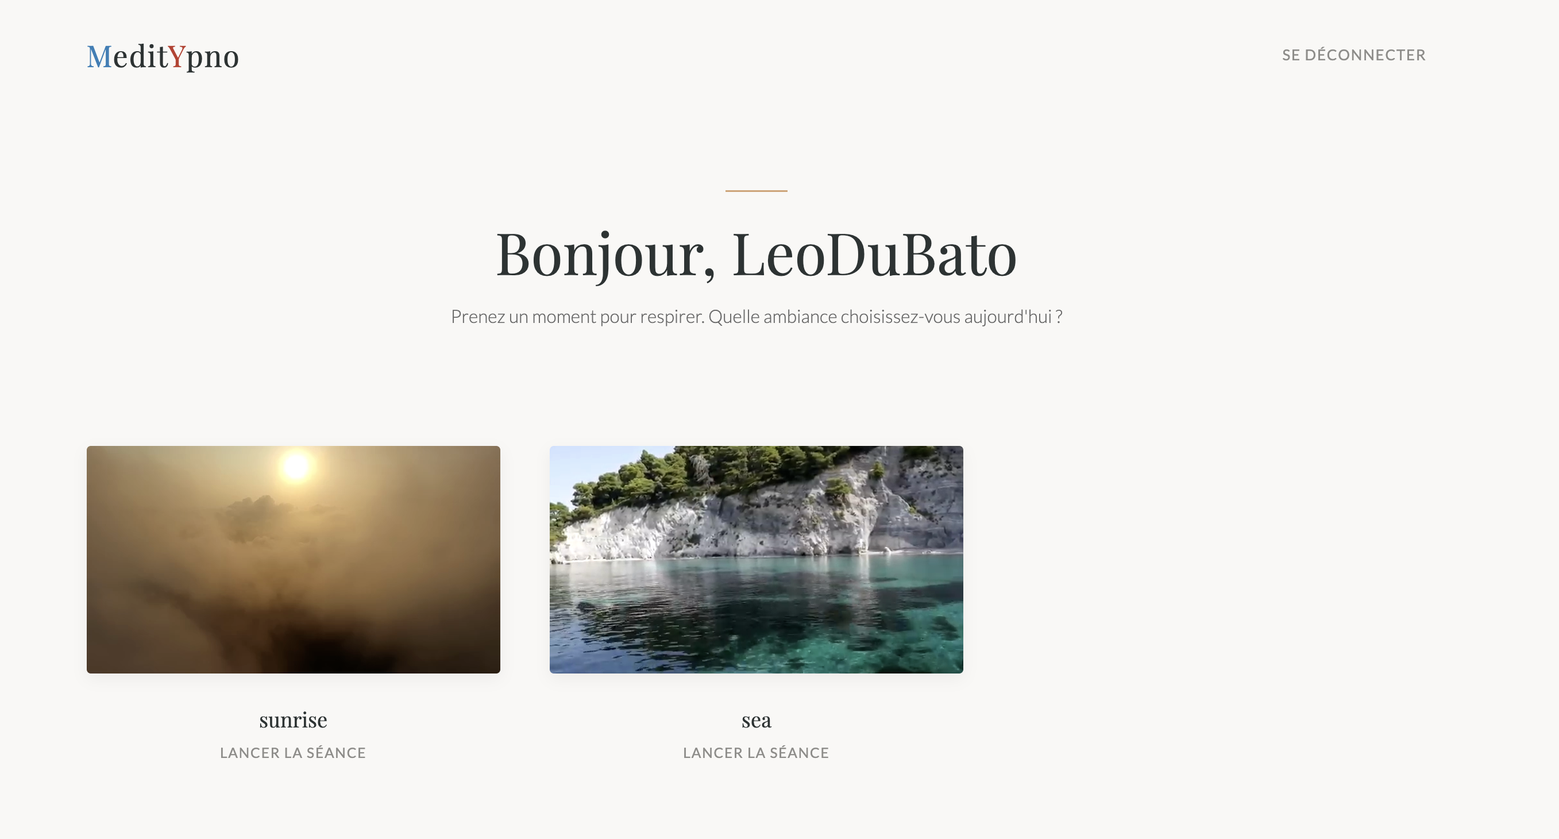
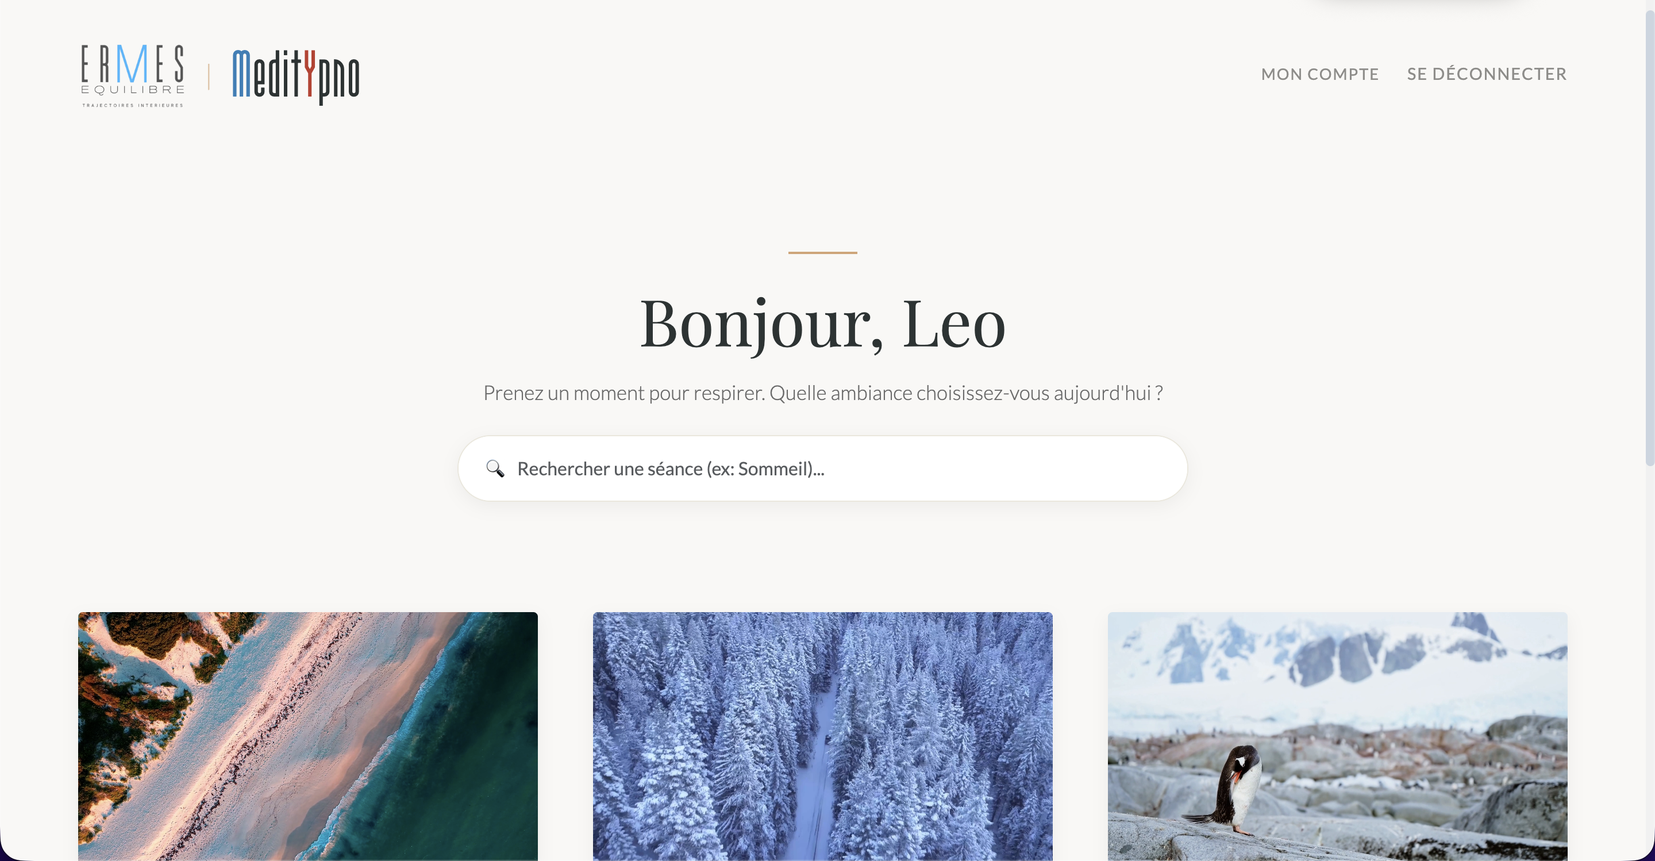
projet vod rework mais aussi projet time tracker app

diff --git a/projets/ermesVod.html b/projets/ermesVod.html
@@ -70,33 +70,66 @@
                             <button type="button" data-bs-target="#projectCarousel" data-bs-slide-to="1"></button>
                             <button type="button" data-bs-target="#projectCarousel" data-bs-slide-to="2"></button>
                             <button type="button" data-bs-target="#projectCarousel" data-bs-slide-to="3"></button>
+                            <button type="button" data-bs-target="#projectCarousel" data-bs-slide-to="4"></button>
+                            <button type="button" data-bs-target="#projectCarousel" data-bs-slide-to="5"></button>
+                            <button type="button" data-bs-target="#projectCarousel" data-bs-slide-to="6"></button>
+                            <button type="button" data-bs-target="#projectCarousel" data-bs-slide-to="7"></button>
                         </div>
                         <div class="carousel-inner">
                             <div class="carousel-item active">
-                                <img src="../assets/img/projects/ermes/home.png" class="d-block w-100"
-                                    alt="Interface Abonnés">
+                                <img src="../assets/img/projects/ermes/LandingPage1.png" class="d-block w-100"
+                                    alt="Landing Page Immersive">
                                 <div class="carousel-caption d-none d-md-block glass rounded px-3 py-2 text-white">
-                                    <h5 class="mb-0">Interface Abonnés (Netflix-style)</h5>
+                                    <h5 class="mb-0">Une Vitrine Immersive & Moderne</h5>
+                                </div>
+                            </div>
+                            <div class="carousel-item">
+                                <img src="../assets/img/projects/ermes/LandingPageWithSubscribtion.png"
+                                    class="d-block w-100" alt="Landing Page avec Offres">
+                                <div class="carousel-caption d-none d-md-block glass rounded px-3 py-2 text-white">
+                                    <h5 class="mb-0">Présentation Claire des Offres</h5>
                                 </div>
                             </div>
                             <div class="carousel-item">
                                 <img src="../assets/img/projects/ermes/login.png" class="d-block w-100"
-                                    alt="Page Login">
+                                    alt="Login Page">
                                 <div class="carousel-caption d-none d-md-block glass rounded px-3 py-2 text-white">
                                     <h5 class="mb-0">Authentification Sécurisée</h5>
                                 </div>
                             </div>
                             <div class="carousel-item">
-                                <img src="../assets/img/projects/ermes/paywall.png" class="d-block w-100" alt="Paywall">
+                                <img src="../assets/img/projects/ermes/Home.png" class="d-block w-100"
+                                    alt="Catalogue Vidéo">
                                 <div class="carousel-caption d-none d-md-block glass rounded px-3 py-2 text-white">
-                                    <h5 class="mb-0">Paywall & Gestion d'Abonnement</h5>
+                                    <h5 class="mb-0">Catalogue Vidéo Complet</h5>
                                 </div>
                             </div>
                             <div class="carousel-item">
-                                <img src="../assets/img/projects/ermes/dashboard.png" class="d-block w-100"
-                                    alt="Dashboard Admin">
+                                <img src="../assets/img/projects/ermes/HomeSearchBar.png" class="d-block w-100"
+                                    alt="Recherche Intelligente">
                                 <div class="carousel-caption d-none d-md-block glass rounded px-3 py-2 text-white">
-                                    <h5 class="mb-0">Dashboard Administrateur</h5>
+                                    <h5 class="mb-0">Navigation Fluide & Recherche Instantanée</h5>
+                                </div>
+                            </div>
+                            <div class="carousel-item">
+                                <img src="../assets/img/projects/ermes/VideoDragAndDrop.png" class="d-block w-100"
+                                    alt="Upload Admin">
+                                <div class="carousel-caption d-none d-md-block glass rounded px-3 py-2 text-white">
+                                    <h5 class="mb-0">Administration "Drag & Drop"</h5>
+                                </div>
+                            </div>
+                            <div class="carousel-item">
+                                <img src="../assets/img/projects/ermes/StripePage.png" class="d-block w-100"
+                                    alt="Paiement Sécurisé">
+                                <div class="carousel-caption d-none d-md-block glass rounded px-3 py-2 text-white">
+                                    <h5 class="mb-0">Paiements Intégrés (Stripe)</h5>
+                                </div>
+                            </div>
+                            <div class="carousel-item">
+                                <img src="../assets/img/projects/ermes/PayForSubscrintion.png" class="d-block w-100"
+                                    alt="Activation Code">
+                                <div class="carousel-caption d-none d-md-block glass rounded px-3 py-2 text-white">
+                                    <h5 class="mb-0">Activation par Code</h5>
                                 </div>
                             </div>
                         </div>
@@ -145,10 +178,18 @@
                             </ul>
                         </div>
 
+                        <div class="mb-4">
+                            <h4 class="h6 text-muted text-uppercase small ls-1">Site Web</h4>
+                            <a href="https://meditypno.ermes-equilibre.com/" target="_blank"
+                                class="btn btn-sm btn-primary w-100 rounded-pill">
+                                Voir le site
+                            </a>
+                        </div>
+
                         <div>
-                            <h4 class="h6 text-muted text-uppercase small ls-1">Code & Démo</h4>
+                            <h4 class="h6 text-muted text-uppercase small ls-1">Code Source</h4>
                             <p class="small text-muted mb-0">
-                                <em>Projet privé (propriété de l'entreprise). Code source non public.</em>
+                                <em>Projet privé (propriété de l'entreprise).</em>
                             </p>
                         </div>
                     </div>
@@ -216,69 +257,112 @@
                         </div>
                     </div>
 
-                    <!-- 3. Key Features -->
+                    <!-- 3. Product Tour -->
                     <div class="mb-5">
-                        <h2 class="h3 text-white mb-3">3. Fonctionnalités Clés</h2>
+                        <h2 class="h3 text-white mb-4">3. Le Produit : Une Expérience Premium</h2>
 
-                        <div class="d-flex align-items-start mb-4">
-                            <div class="me-3 mt-1 text-primary">
-                                <svg xmlns="http://www.w3.org/2000/svg" width="24" height="24" fill="currentColor"
-                                    class="bi bi-camera-video" viewBox="0 0 16 16">
-                                    <path fill-rule="evenodd"
-                                        d="M0 5a2 2 0 0 1 2-2h7.5a2 2 0 0 1 1.983 1.738l3.11-1.382A1 1 0 0 1 16 4.269v7.461a1 1 0 0 1-1.406.913l-3.111-1.382A2 2 0 0 1 9.5 13H2a2 2 0 0 1-2-2V5zm11.5 5.175 3.5 1.556V4.269l-3.5 1.556v4.35zM2 4a1 1 0 0 0-1 1v6a1 1 0 0 0 1 1h7.5a1 1 0 0 0 1-1V5a1 1 0 0 0-1-1H2z" />
-                                </svg>
-                            </div>
-                            <div>
-                                <h4 class="h5 text-white">Pipeline d'Ingestion "Zéro Clic"</h4>
-                                <p class="text-muted small">
-                                    L'administrateur dépose simplement un fichier <code>.mp4</code> via SFTP. Un
-                                    "Watcher" (basé sur <a href="https://medium.com/@ashusingh584/chokidar-11290855e2cb"
-                                        target="_blank" class="text-primary text-decoration-none">chokidar</a>) détecte
-                                    le fichier, lance un worker
-                                    FFmpeg pour le convertir en <strong>HLS (.m3u8)</strong>, génère les miniatures, et
-                                    met à jour la base de données.
-                                    <br><span
-                                        class="badge bg-secondary bg-opacity-10 text-secondary mt-1">Automatisé</span>
-                                </p>
+                        <!-- Feature 1: Landing Page -->
+                        <div class="card glass p-4 mb-4 border-0">
+                            <div class="row align-items-center">
+                                <div class="col-lg-12 mb-3">
+                                    <h4 class="h5 text-primary mb-3">Une Vitrine Immersive & "Zen"</h4>
+                                    <p class="text-muted">
+                                        L'application accueille les visiteurs avec une Landing Page moderne, conçue
+                                        selon
+                                        des codes esthétiques "Netflix-like" épurés. L'objectif est de plonger
+                                        immédiatement l'utilisateur dans l'univers de la marque.
+                                    </p>
+                                </div>
+                                <div class="col-lg-12">
+                                    <img src="../assets/img/projects/ermes/LandingPage1.png"
+                                        class="img-fluid rounded shadow-sm mb-2" alt="Landing Page">
+                                    <img src="../assets/img/projects/ermes/LandingPageWithSubscribtion.png"
+                                        class="img-fluid rounded shadow-sm" alt="Sections Offres">
+                                </div>
                             </div>
                         </div>
 
-                        <div class="d-flex align-items-start mb-4">
-                            <div class="me-3 mt-1 text-primary">
-                                <svg xmlns="http://www.w3.org/2000/svg" width="24" height="24" fill="currentColor"
-                                    class="bi bi-shield-lock" viewBox="0 0 16 16">
-                                    <path
-                                        d="M8 1a2 2 0 0 1 2 2v4H6V3a2 2 0 0 1 2-2zm3 6V3a3 3 0 0 0-6 0v4a2 2 0 0 0-2 2v5a2 2 0 0 0 2 2h6a2 2 0 0 0 2-2V9a2 2 0 0 0-2-2z" />
-                                </svg>
-                            </div>
-                            <div>
-                                <h4 class="h5 text-white">Paywall Intelligent & RBAC</h4>
-                                <p class="text-muted small">
-                                    Protection des routes Frontend et Backend. Le token JWT contient l'état de
-                                    l'abonnement. Si un utilisateur non-abonné tente d'accéder à une vidéo, il est
-                                    redirigé vers une page "Subscribe" (Paywall). Le système gère aussi les expirations
-                                    d'abonnement automatiquement ("Lazy Check").
-                                </p>
+                        <!-- Feature 2: Auth -->
+                        <div class="card glass p-4 mb-4 border-0">
+                            <div class="row align-items-center">
+                                <div class="col-lg-6 mb-3 mb-lg-0">
+                                    <h4 class="h5 text-primary mb-3">Accès Sécurisé</h4>
+                                    <p class="text-muted">
+                                        Une interface de connexion sobre et sécurisée, cohérente avec l'identité
+                                        visuelle
+                                        de la marque, protège l'accès aux contenus exclusifs.
+                                    </p>
+                                </div>
+                                <div class="col-lg-6">
+                                    <img src="../assets/img/projects/ermes/login.png"
+                                        class="img-fluid rounded shadow-sm" alt="Login Page">
+                                </div>
                             </div>
                         </div>
 
-                        <div class="d-flex align-items-start">
-                            <div class="me-3 mt-1 text-primary">
-                                <svg xmlns="http://www.w3.org/2000/svg" width="24" height="24" fill="currentColor"
-                                    class="bi bi-speedometer2" viewBox="0 0 16 16">
-                                    <path
-                                        d="M8 4a.5.5 0 0 1 .5.5V6a.5.5 0 0 1-1 0V4.5A.5.5 0 0 1 8 4zM3.732 5.732a.5.5 0 0 1 .707 0l.915.914a.5.5 0 1 1-.708.708l-.914-.915a.5.5 0 0 1 0-.707zM2 10a.5.5 0 0 1 .5-.5h1.586a.5.5 0 0 1 0 1H2.5A.5.5 0 0 1 2 10zm9.5 0a.5.5 0 0 1 .5-.5h1.5a.5.5 0 0 1 0 1H12a.5.5 0 0 1-.5-.5zm.754-4.246a.389.389 0 0 0-.527-.02l-.755.755a.389.389 0 0 0 .22.68c.075.006.15-.015.207-.057l.755-.755a.389.389 0 0 0 .1-.527zM8 1a6.996 6.996 0 0 0-7 7c0 3.209 2.11 5.867 5.035 6.703a.5.5 0 1 1-.271.961A7.996 7.996 0 0 1 8 0c4.418 0 8 3.582 8 8a7.996 7.996 0 0 1-1.025 3.961.5.5 0 0 1-.892-.451A6.996 6.996 0 0 1 8 1z" />
-                                </svg>
+                        <!-- Feature 3: Catalog & Search -->
+                        <div class="card glass p-4 mb-4 border-0">
+                            <h4 class="h5 text-primary mb-3">Le Catalogue Vidéo & Recherche</h4>
+                            <p class="text-muted mb-4">
+                                Une fois connecté, l'abonné découvre l'ensemble du catalogue. J'ai développé un moteur
+                                de recherche instantanée qui filtre la grille en temps réel. L'expérience est fluide,
+                                invitant à l'exploration.
+                            </p>
+                            <img src="../assets/img/projects/ermes/Home.png" class="img-fluid rounded shadow-sm mb-2"
+                                alt="Catalogue Vidéo">
+                            <img src="../assets/img/projects/ermes/HomeSearchBar.png"
+                                class="img-fluid rounded shadow-sm" alt="Recherche">
+                        </div>
+
+                        <!-- Feature 4: Admin -->
+                        <div class="card glass p-4 mb-4 border-0">
+                            <div class="row align-items-center">
+                                <div class="col-lg-6 order-lg-2 mb-3 mb-lg-0">
+                                    <h4 class="h5 text-primary mb-3">Administration : Ingestion "Zéro Clic"</h4>
+                                    <p class="text-muted small">
+                                        Via le panel admin, le gérant glisse simplement ses vidéos ("Drag & Drop").
+                                        <br><strong>Automatiquement :</strong>
+                                    <ul class="list-unstyled mt-2">
+                                        <li>⚡ Upload sécurisé</li>
+                                        <li>⚙ Transcodage HLS (Streaming)</li>
+                                        <li>🖼 Génération de miniatures</li>
+                                    </ul>
+                                    </p>
+                                </div>
+                                <div class="col-lg-6 order-lg-1">
+                                    <img src="../assets/img/projects/ermes/VideoDragAndDrop.png"
+                                        class="img-fluid rounded shadow-sm mb-2" alt="Interface Upload">
+                                    <img src="../assets/img/projects/ermes/AddAVideoLoading.png"
+                                        class="img-fluid rounded shadow-sm" alt="Barre de chargement">
+                                </div>
                             </div>
-                            <div>
-                                <h4 class="h5 text-white">Performance & Optimisation</h4>
-                                <p class="text-muted small">
-                                    Utilisation de <a href="https://hlsjs.video-dev.org/demo/" target="_blank"
-                                        class="text-primary text-decoration-none"><strong>hls.js</strong></a> pour le
-                                    streaming adaptatif (la qualité
-                                    s'ajuste au réseau du client). File d'attente (Queue) pour l'encodage afin d'éviter
-                                    de saturer le CPU du serveur si plusieurs vidéos sont uploadées en même temps.
-                                </p>
+                        </div>
+
+                        <!-- Feature 5: Monetization -->
+                        <div class="card glass p-4 mb-4 border-0">
+                            <h4 class="h5 text-primary mb-3">Monétisation Hybride Flexible</h4>
+                            <p class="text-muted">
+                                Pour répondre aux besoins B2C et B2B, j'ai mis en place deux flux d'abonnement :
+                            </p>
+                            <div class="row g-4">
+                                <div class="col-md-6">
+                                    <div class="border border-secondary border-opacity-25 rounded p-3 h-100">
+                                        <strong class="d-block text-white mb-2">1. Paiement Carte (Stripe)</strong>
+                                        <p class="small text-muted mb-2">Abonnement mensuel récurrent, géré
+                                            automatiquement via Stripe Checkout.</p>
+                                        <img src="../assets/img/projects/ermes/StripePage.png"
+                                            class="img-fluid rounded shadow-sm" alt="Stripe">
+                                    </div>
+                                </div>
+                                <div class="col-md-6">
+                                    <div class="border border-secondary border-opacity-25 rounded p-3 h-100">
+                                        <strong class="d-block text-white mb-2">2. Code d'Activation</strong>
+                                        <p class="small text-muted mb-2">Système de clés unique pour les ventes en
+                                            boutique physique ou externe.</p>
+                                        <img src="../assets/img/projects/ermes/PayForSubscrintion.png"
+                                            class="img-fluid rounded shadow-sm" alt="Activation Code">
+                                    </div>
+                                </div>
                             </div>
                         </div>
 

diff --git a/projets/timeTracker.html b/projets/timeTracker.html
@@ -183,6 +183,69 @@
                         </div>
                     </div>
 
+                    <!-- Feature Showcase -->
+                    <div class="mb-5">
+                        <h2 class="h3 text-white mb-4">Fonctionnalités Clés</h2>
+
+                        <!-- Feature 1: Dashboard -->
+                        <div class="row align-items-center mb-5">
+                            <div class="col-md-7 mb-3 mb-md-0">
+                                <div class="card glass p-2 border-0">
+                                    <img src="../assets/img/projects/time_tracker/dashboard.png"
+                                        class="img-fluid rounded shadow-sm" alt="Interface de tracking">
+                                </div>
+                            </div>
+                            <div class="col-md-5">
+                                <h3 class="h4 text-primary">Tracking en Temps Réel</h3>
+                                <p class="text-muted">
+                                    Un timer minimaliste et discret conçu pour ne pas distraire. Lancez votre session en
+                                    un clic,
+                                    sélectionnez votre activité, et laissez l'application tourner en arrière-plan
+                                    pendant que vous
+                                    vous concentrez sur l'essentiel.
+                                </p>
+                            </div>
+                        </div>
+
+                        <!-- Feature 2: Stats -->
+                        <div class="row align-items-center mb-5">
+                            <div class="col-md-7 order-md-2 mb-3 mb-md-0">
+                                <div class="card glass p-2 border-0">
+                                    <img src="../assets/img/projects/time_tracker/stats.png"
+                                        class="img-fluid rounded shadow-sm" alt="Statistiques complètes">
+                                </div>
+                            </div>
+                            <div class="col-md-5 order-md-1">
+                                <h3 class="h4 text-primary">Analyses & Statistiques</h3>
+                                <p class="text-muted">
+                                    Visualisez votre progression grâce à des graphiques dynamiques.
+                                    Analysez la répartition de votre temps par catégorie sur la semaine et identifiez
+                                    vos jours
+                                    les plus productifs d'un simple coup d'œil.
+                                </p>
+                            </div>
+                        </div>
+
+                        <!-- Feature 3: Profile -->
+                        <div class="row align-items-center mb-5">
+                            <div class="col-md-7 mb-3 mb-md-0">
+                                <div class="card glass p-2 border-0">
+                                    <img src="../assets/img/projects/time_tracker/profile.png"
+                                        class="img-fluid rounded shadow-sm" alt="Gestion du profil">
+                                </div>
+                            </div>
+                            <div class="col-md-5">
+                                <h3 class="h4 text-primary">Profil & Paramètres</h3>
+                                <p class="text-muted">
+                                    Personnalisez vos catégories de travail et gérez vos données.
+                                    L'application permet un export/import complet de vos données au format JSON, vous
+                                    garantissant
+                                    la pleine maîtrise de vos informations.
+                                </p>
+                            </div>
+                        </div>
+                    </div>
+
                     <!-- 2. Architecture -->
                     <div class="mb-5">
                         <h2 class="h3 text-white mb-3">2. Architecture & Fonctionnalités</h2>

diff --git a/sections/competences.html b/sections/competences.html
@@ -12,7 +12,9 @@
                     <div class="col-md-6 col-lg-4">
                         <div class="card glass h-100 d-flex flex-column">
                             <div class="card-body d-flex flex-column">
-                                <h4 class="card-title h5 mb-3 text-white">TimeTracker Desktop App</h4>
+                                <h4 class="card-title h5 mb-3 text-white">TimeTracker Desktop App <span
+                                        class="badge bg-danger ms-1 align-middle"
+                                        style="font-size: 0.6em;">Nouveau</span></h4>
                                 <p class="card-text flex-grow-1 small">
                                     Développement d'une application de bureau "Offline" avec
                                     <strong>Electron</strong>, <strong>React</strong> et <strong>TypeScript</strong>.
@@ -80,7 +82,10 @@
                     <div class="col-md-6 col-lg-3">
                         <div class="card glass h-100 d-flex flex-column">
                             <div class="card-body d-flex flex-column">
-                                <h4 class="card-title h6 mb-3 text-white">Plateforme VOD Ermes</h4>
+                                <h4 class="card-title h6 mb-3 text-white">Plateforme VOD Ermes <span
+                                        class="badge bg-danger ms-1 align-middle"
+                                        style="font-size: 0.6em;">Nouveau</span>
+                                </h4>
                                 <p class="card-text flex-grow-1 small">
                                     Développement d'un <strong>Netflix-like</strong> pour la formation : Streaming HLS,
                                     API Node.js/FFmpeg, Frontend Vue.js, Auth RBAC et déploiement Docker sur VPS OVH.
